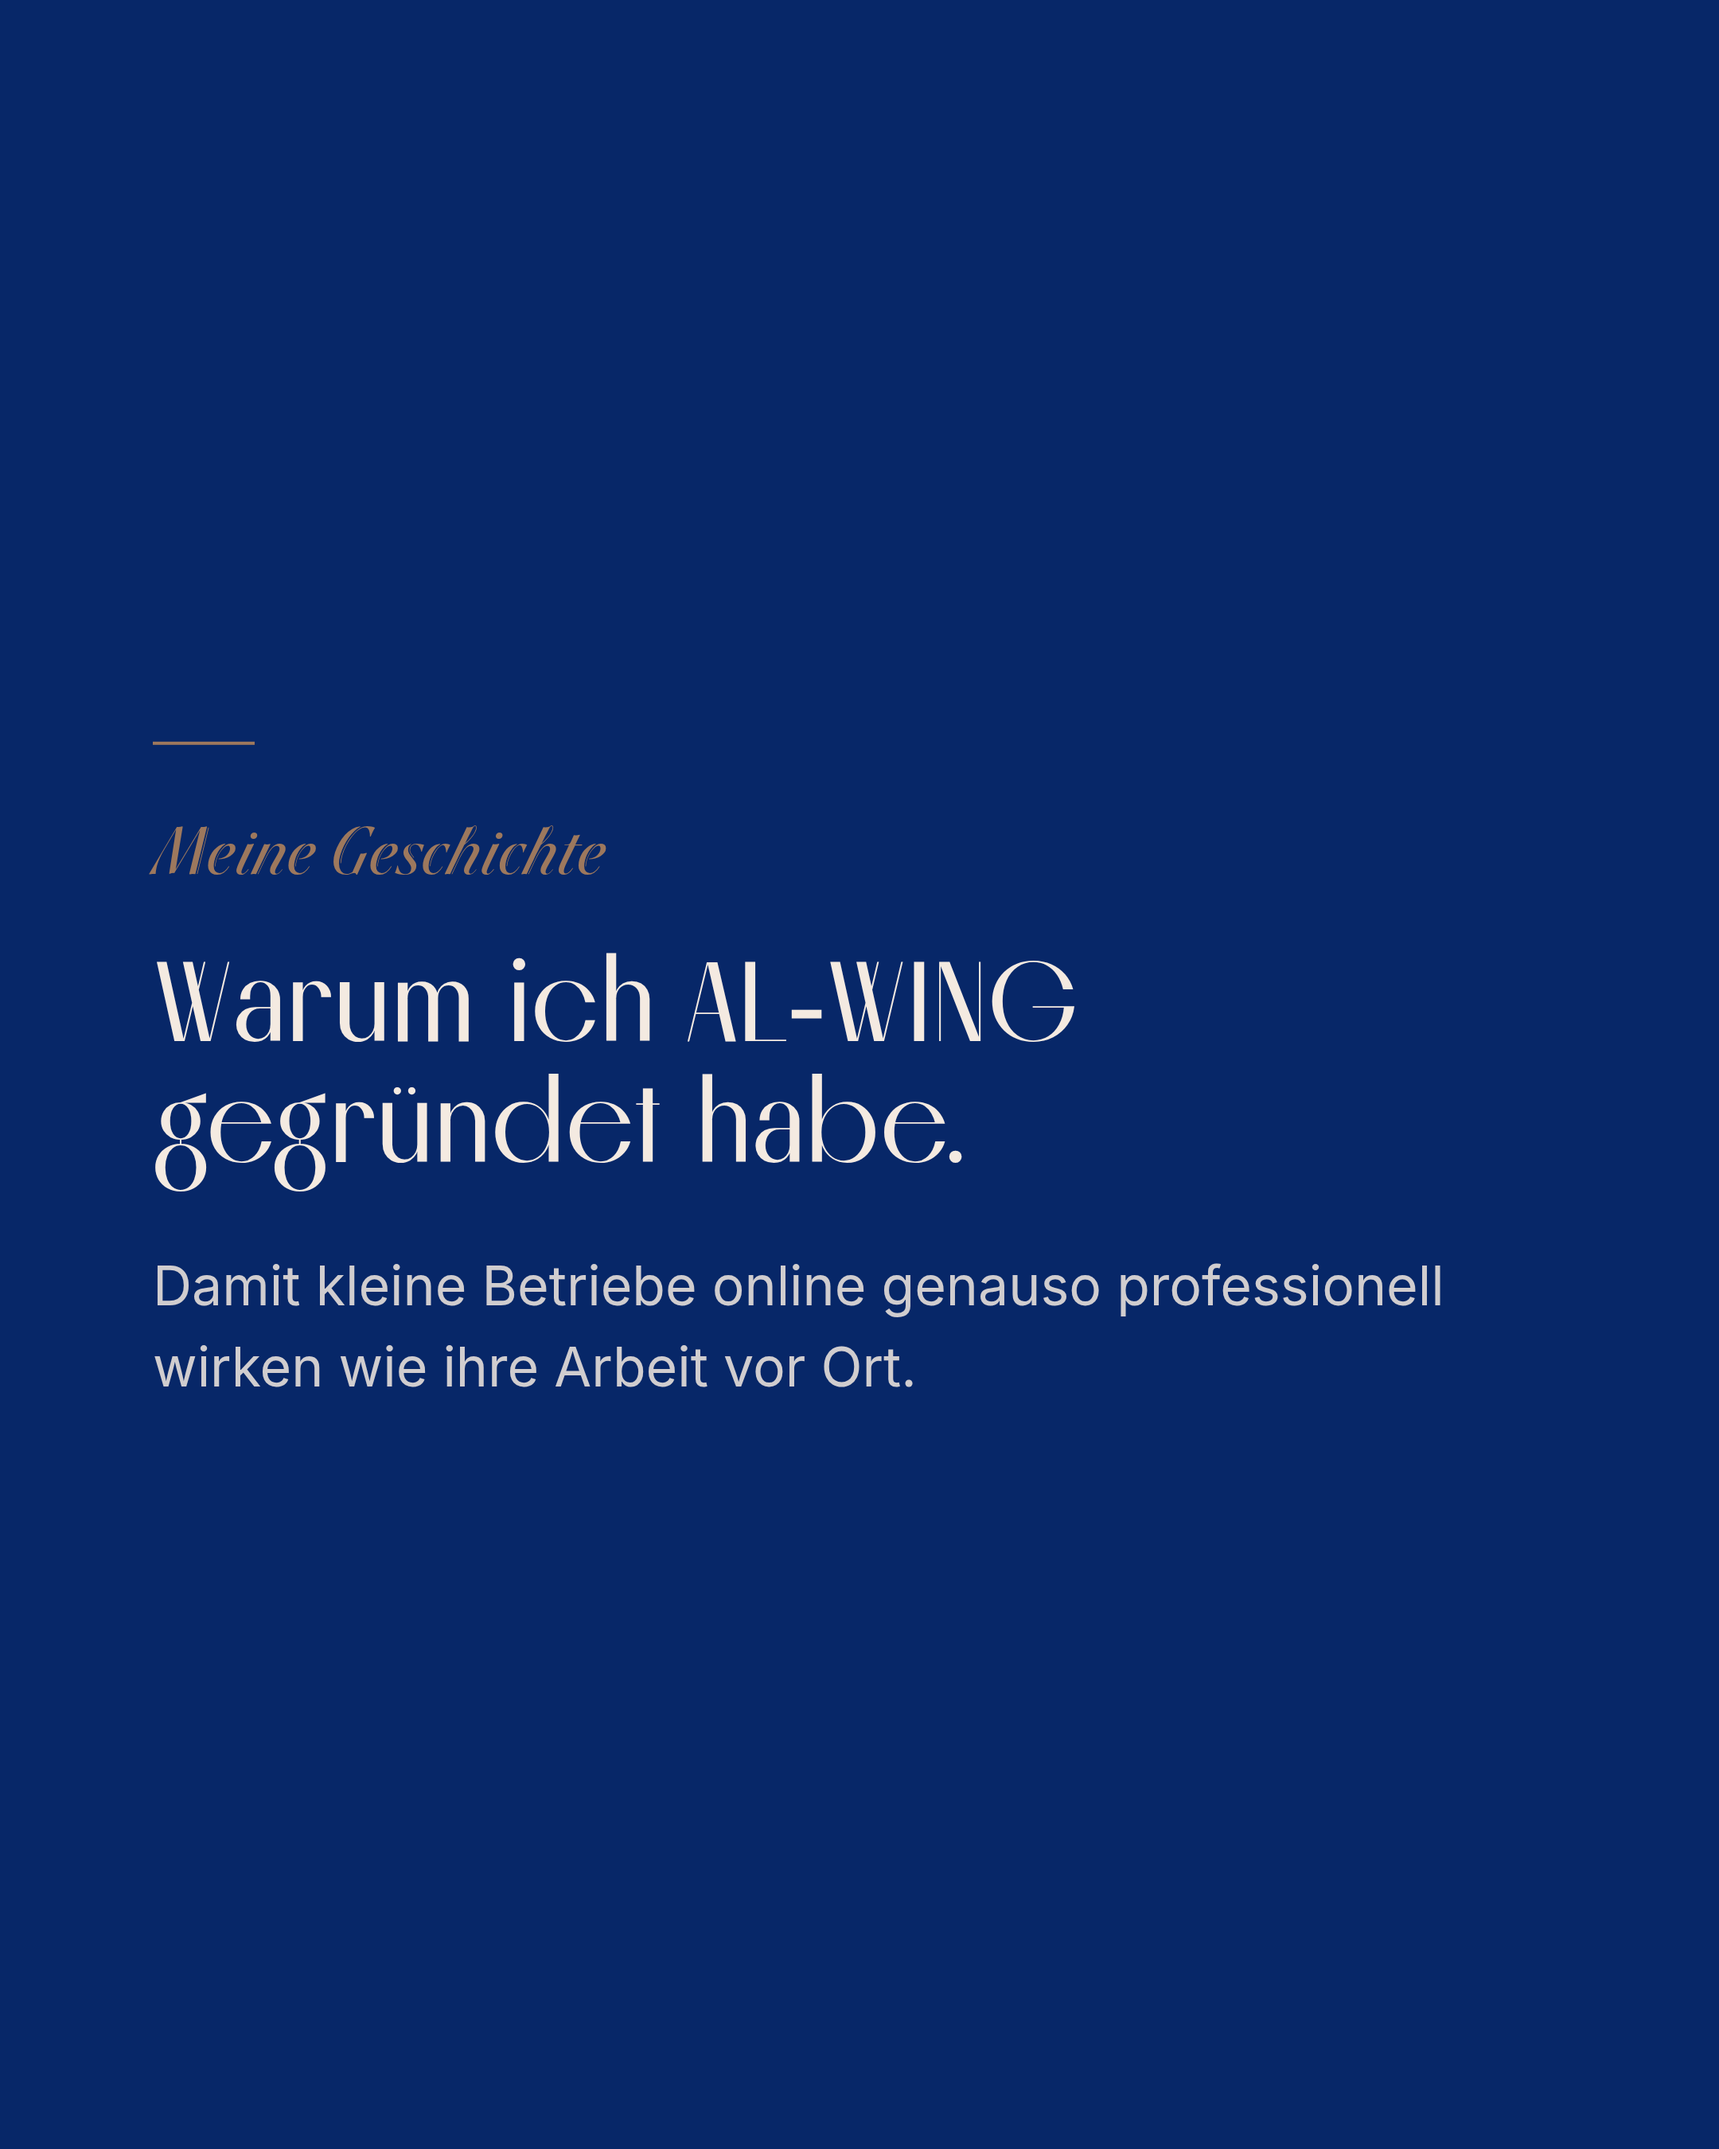
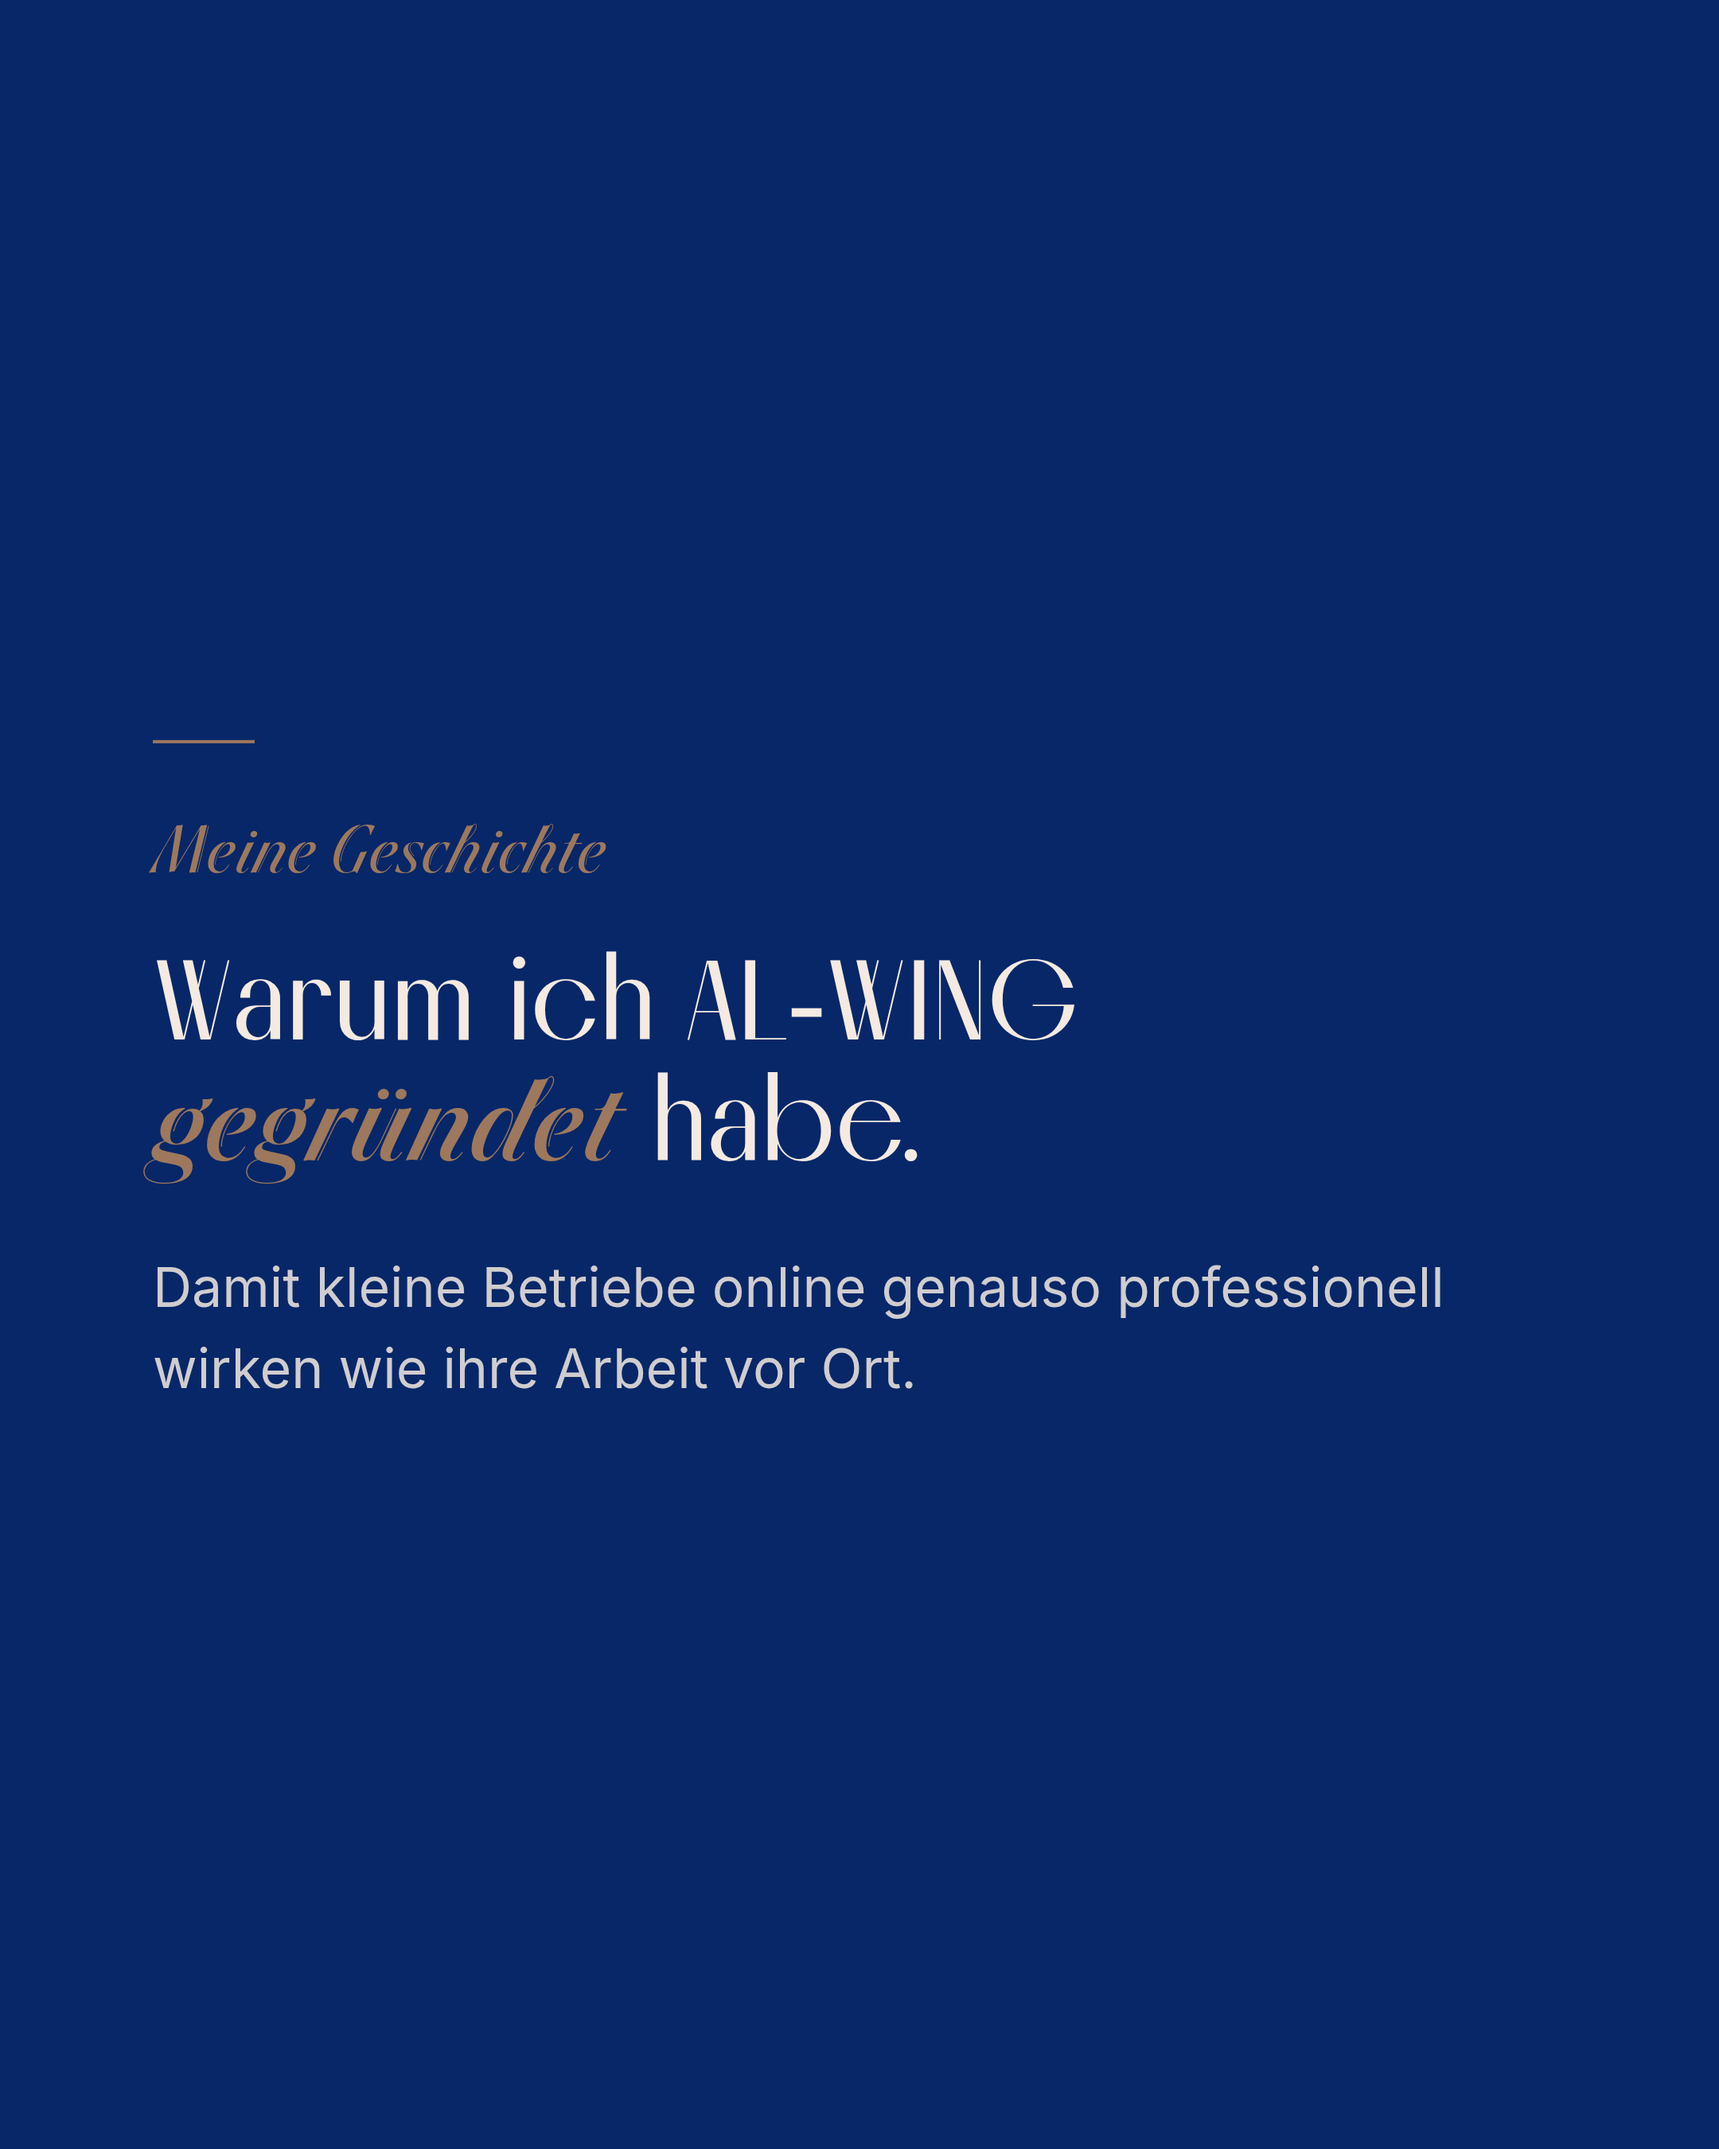
Karussell überarbeiten: Britney-Akzente, Fotos getauscht, Phone-Mockup realistischer
- Slide 1/7: Fotos getauscht (portrait-founder.jpg / Lena-27.jpg), Eyebrow auf "AL-WING." verkürzt
- Slides 1, 3, 4, 6, 7: ein Wort je Headline in Britney/Tan als Akzent, konsistent zum Website-Stil
- Slides 2+3: Bleed-Foto gespiegelt (zeigt jetzt erst Gesicht, dann Laptop/Haare), Hintergrund navy statt schwarz getönt
- Slide 5: Phone-Mockup realistischer (Dynamic Island, Seitentasten, Glas-Reflexion, Metall-Bezel) und bricht unten aus dem Rahmen

diff --git a/social/instagram/2026-07-founder-intro/slides/slide-5.html b/social/instagram/2026-07-founder-intro/slides/slide-5.html
@@ -9,7 +9,7 @@
     position: absolute;
     left: 96px;
     right: 96px;
-    top: 104px;
+    top: 100px;
   }
   .kicker {
     font-family: 'Britney', serif;
@@ -20,58 +20,98 @@
   .headline {
     font-size: 58px;
     color: var(--navy);
+    max-width: 800px;
+    margin-bottom: 32px;
+  }
+  .headline .accent {
+    font-family: 'Britney', serif;
+    color: var(--tan);
+    font-weight: 500;
+  }
+  .body-text {
+    font-size: 32px;
+    color: var(--navy);
+    opacity: 0.82;
     max-width: 760px;
   }
 
   .phone {
     position: absolute;
     left: 50%;
-    top: 700px;
-    transform: translate(-50%, -50%);
-    width: 452px;
+    top: 660px;
+    transform: translateX(-50%);
+    width: 560px;
   }
   .phone-outer {
-    background: var(--navy);
-    border-radius: 58px;
-    padding: 16px;
-    box-shadow: 0 50px 90px rgba(7,39,104,0.28), 0 16px 30px rgba(7,39,104,0.14);
     position: relative;
+    background: linear-gradient(155deg, #2b2f38 0%, #101216 38%, #06070a 100%);
+    border-radius: 64px;
+    padding: 14px;
+    box-shadow:
+      0 70px 110px rgba(7,39,104,0.32),
+      0 24px 44px rgba(7,39,104,0.2),
+      inset 0 0 0 1px rgba(255,255,255,0.06);
   }
-  .phone-notch {
+  .phone-outer::before {
+    content: "";
     position: absolute;
-    top: 34px;
-    left: 50%;
-    transform: translateX(-50%);
-    width: 118px;
-    height: 24px;
-    background: var(--navy);
-    border-radius: 14px;
-    z-index: 2;
+    left: 6px; top: 40px; bottom: 40px;
+    width: 2px;
+    background: linear-gradient(180deg, rgba(255,255,255,0.35), rgba(255,255,255,0));
+    border-radius: 2px;
   }
+  .side-btn {
+    position: absolute;
+    background: linear-gradient(90deg, #3a3d44, #17181b);
+    border-radius: 3px;
+  }
+  .side-btn.mute   { left: -4px; top: 168px; width: 4px; height: 46px; }
+  .side-btn.vol-up { left: -4px; top: 238px; width: 4px; height: 70px; }
+  .side-btn.vol-dn { left: -4px; top: 320px; width: 4px; height: 70px; }
+  .side-btn.power  { right: -4px; top: 250px; width: 4px; height: 100px; }
+
   .phone-screen {
     position: relative;
-    width: 420px;
-    height: 786px;
-    border-radius: 42px;
+    width: 532px;
+    height: 996px;
+    border-radius: 50px;
     overflow: hidden;
     background: var(--cream);
   }
   .phone-screen img {
-    width: 420px;
+    width: 532px;
     display: block;
   }
-
-  .body-wrap {
+  .dynamic-island {
     position: absolute;
-    left: 96px;
-    right: 96px;
-    bottom: 100px;
+    top: 22px;
+    left: 50%;
+    transform: translateX(-50%);
+    width: 132px;
+    height: 36px;
+    background: #04050a;
+    border-radius: 20px;
+    z-index: 3;
+    box-shadow: inset 0 0 0 1px rgba(255,255,255,0.04);
   }
-  .body-text {
-    font-size: 32px;
-    color: var(--navy);
-    opacity: 0.82;
-    max-width: 780px;
+  .glass-reflection {
+    position: absolute;
+    inset: 0;
+    z-index: 4;
+    pointer-events: none;
+    background: linear-gradient(122deg,
+      rgba(255,255,255,0.16) 0%,
+      rgba(255,255,255,0.05) 18%,
+      rgba(255,255,255,0) 34%,
+      rgba(255,255,255,0) 100%);
+  }
+  .screen-edge {
+    position: absolute;
+    inset: 0;
+    z-index: 5;
+    pointer-events: none;
+    border-radius: 50px;
+    box-shadow: inset 0 0 0 2px rgba(0,0,0,0.5);
   }
 </style>
 </head>
@@ -79,20 +119,23 @@
   <div class="frame">
     <div class="heading">
       <div class="kicker">Mein Angebot</div>
-      <div class="headline">Website. Betreuung. Automatisierung.</div>
+      <div class="headline">Website. Betreuung. <span class="accent">Automatisierung.</span></div>
+      <div class="body-text">Ich baue Ihre Website, pflege sie danach und nehme Ihnen wiederkehrende Aufgaben ab.</div>
     </div>
 
     <div class="phone">
       <div class="phone-outer">
-        <div class="phone-notch"></div>
+        <div class="side-btn mute"></div>
+        <div class="side-btn vol-up"></div>
+        <div class="side-btn vol-dn"></div>
+        <div class="side-btn power"></div>
         <div class="phone-screen">
           <img src="../images/mobile-kontakt-crop.png">
+          <div class="dynamic-island"></div>
+          <div class="glass-reflection"></div>
+          <div class="screen-edge"></div>
         </div>
       </div>
-    </div>
-
-    <div class="body-wrap">
-      <div class="body-text">Ich baue Ihre Website, pflege sie danach und nehme Ihnen wiederkehrende Aufgaben ab.</div>
     </div>
   </div>
 </body>

diff --git a/social/instagram/2026-07-founder-intro/slides/slide-3.html b/social/instagram/2026-07-founder-intro/slides/slide-3.html
@@ -4,20 +4,28 @@
 <meta charset="UTF-8">
 <link rel="stylesheet" href="../base.css">
 <style>
-  body { background: #000; }
-  .bleed-window { position: absolute; inset: 0; overflow: hidden; }
+  body { background: var(--navy); }
+  .bleed-window { position: absolute; inset: 0; overflow: hidden; background: #050b1a; }
   .bleed-img {
     position: absolute;
     top: -45px;
     left: -1080px;
     width: 2160px;
     height: 1440px;
+    transform: scaleX(-1);
+  }
+  .navy-tint {
+    position: absolute;
+    inset: 0;
+    background: var(--navy);
+    mix-blend-mode: screen;
+    opacity: 0.6;
   }
   .veil-bottom {
     position: absolute;
     left: 0; right: 0; bottom: 0;
-    height: 640px;
-    background: linear-gradient(0deg, rgba(0,0,0,0.82) 0%, rgba(0,0,0,0) 100%);
+    height: 660px;
+    background: linear-gradient(0deg, rgba(4,12,32,0.86) 0%, rgba(4,12,32,0) 100%);
   }
   .caption {
     position: absolute;
@@ -27,6 +35,11 @@
     color: var(--cream);
   }
   .caption .headline { font-size: 58px; margin-bottom: 22px; }
+  .caption .headline .accent {
+    font-family: 'Britney', serif;
+    color: var(--tan);
+    font-weight: 500;
+  }
   .caption .body-text { font-size: 30px; color: var(--cream); opacity: 0.92; max-width: 880px; }
 </style>
 </head>
@@ -34,10 +47,11 @@
   <div class="frame">
     <div class="bleed-window">
       <img class="bleed-img" src="../images/Lena-67.jpg">
+      <div class="navy-tint"></div>
     </div>
     <div class="veil-bottom"></div>
     <div class="caption">
-      <div class="headline">Gr&uuml;nderin von AL&#8209;WING.</div>
+      <div class="headline"><span class="accent">Gr&uuml;nderin</span> von AL&#8209;WING.</div>
       <div class="body-text">Master in Wirtschaftsinformatik &ndash; meine Leidenschaft ist es, Design, Technologie und moderne Webl&ouml;sungen zu verbinden.</div>
     </div>
   </div>

diff --git a/social/instagram/2026-07-founder-intro/slides/slide-2.html b/social/instagram/2026-07-founder-intro/slides/slide-2.html
@@ -4,20 +4,28 @@
 <meta charset="UTF-8">
 <link rel="stylesheet" href="../base.css">
 <style>
-  body { background: #000; }
-  .bleed-window { position: absolute; inset: 0; overflow: hidden; }
+  body { background: var(--navy); }
+  .bleed-window { position: absolute; inset: 0; overflow: hidden; background: #050b1a; }
   .bleed-img {
     position: absolute;
     top: -45px;
     left: 0;
     width: 2160px;
     height: 1440px;
+    transform: scaleX(-1);
+  }
+  .navy-tint {
+    position: absolute;
+    inset: 0;
+    background: var(--navy);
+    mix-blend-mode: screen;
+    opacity: 0.6;
   }
   .veil-top {
     position: absolute;
     top: 0; left: 0; right: 0;
-    height: 520px;
-    background: linear-gradient(180deg, rgba(7,39,104,0.55) 0%, rgba(7,39,104,0) 100%);
+    height: 560px;
+    background: linear-gradient(180deg, rgba(4,12,32,0.7) 0%, rgba(4,12,32,0) 100%);
   }
   .caption {
     position: absolute;
@@ -33,6 +41,7 @@
   <div class="frame">
     <div class="bleed-window">
       <img class="bleed-img" src="../images/Lena-67.jpg">
+      <div class="navy-tint"></div>
     </div>
     <div class="veil-top"></div>
     <div class="caption">

diff --git a/social/instagram/2026-07-founder-intro/slides/slide-7.html b/social/instagram/2026-07-founder-intro/slides/slide-7.html
@@ -11,7 +11,7 @@
     width: 1080px;
     height: 1350px;
     object-fit: cover;
-    object-position: 50% 12%;
+    object-position: 50% 18%;
   }
   .veil {
     position: absolute;
@@ -30,15 +30,20 @@
     color: var(--cream);
   }
   .headline { font-size: 72px; margin-bottom: 30px; }
+  .headline .accent {
+    font-family: 'Britney', serif;
+    color: var(--tan);
+    font-weight: 500;
+  }
   .body-text { font-size: 34px; color: var(--cream); opacity: 0.9; max-width: 820px; }
 </style>
 </head>
 <body>
   <div class="frame">
-    <img class="photo" src="../images/portrait-founder.jpg">
+    <img class="photo" src="../images/Lena-27.jpg">
     <div class="veil"></div>
     <div class="cta">
-      <div class="headline">Lernen wir uns kennen.</div>
+      <div class="headline">Lernen wir uns <span class="accent">kennen</span>.</div>
       <div class="body-text">Schreiben Sie mir eine DM &ndash; ich antworte Ihnen pers&ouml;nlich.</div>
     </div>
   </div>

diff --git a/social/instagram/2026-07-founder-intro/slides/slide-1.html b/social/instagram/2026-07-founder-intro/slides/slide-1.html
@@ -11,7 +11,7 @@
     width: 1080px;
     height: 1350px;
     object-fit: cover;
-    object-position: 50% 25%;
+    object-position: 50% 18%;
   }
   .veil {
     position: absolute;
@@ -40,15 +40,16 @@
   .hook .line.accent {
     font-family: 'Britney', serif;
     color: var(--tan);
-    font-size: 88px;
+    font-size: 92px;
+    font-weight: 500;
   }
 </style>
 </head>
 <body>
   <div class="frame">
-    <img class="photo" src="../images/Lena-27.jpg">
+    <img class="photo" src="../images/portrait-founder.jpg">
     <div class="veil"></div>
-    <div class="eyebrow">AL&#8209;WING &nbsp;&middot;&nbsp; STUDIO GERTH</div>
+    <div class="eyebrow">AL&#8209;WING.</div>
     <div class="hook headline">
       <span class="line">Ihre Konkurrenz</span>
       <span class="line">ist online.</span>

diff --git a/social/instagram/2026-07-founder-intro/slides/slide-4.html b/social/instagram/2026-07-founder-intro/slides/slide-4.html
@@ -29,6 +29,11 @@
     color: var(--cream);
     margin-bottom: 40px;
   }
+  .headline .accent {
+    font-family: 'Britney', serif;
+    color: var(--tan);
+    font-weight: 500;
+  }
   .body-text {
     font-size: 34px;
     color: var(--cream);
@@ -42,7 +47,7 @@
     <div class="content">
       <div class="rule"></div>
       <div class="kicker">Meine Geschichte</div>
-      <div class="headline">Warum ich AL&#8209;WING gegr&uuml;ndet habe.</div>
+      <div class="headline">Warum ich AL&#8209;WING <span class="accent">gegr&uuml;ndet</span> habe.</div>
       <div class="body-text">Damit kleine Betriebe online genauso professionell wirken wie ihre Arbeit vor Ort.</div>
     </div>
   </div>

diff --git a/social/instagram/2026-07-founder-intro/slides/slide-6.html b/social/instagram/2026-07-founder-intro/slides/slide-6.html
@@ -30,6 +30,11 @@
     margin-bottom: 40px;
     max-width: 840px;
   }
+  .headline .accent {
+    font-family: 'Britney', serif;
+    color: var(--tan);
+    font-weight: 500;
+  }
   .body-text {
     font-size: 34px;
     color: var(--navy);
@@ -55,7 +60,7 @@
     <div class="content">
       <div class="rule"></div>
       <div class="kicker">Meine Arbeitsweise</div>
-      <div class="headline">Individuell statt von der Stange.</div>
+      <div class="headline"><span class="accent">Individuell</span> statt von der Stange.</div>
       <div class="body-text">Jede Website entsteht pers&ouml;nlich f&uuml;r einen Betrieb, nicht aus dem Baukasten.</div>
     </div>
     <div class="palette">
